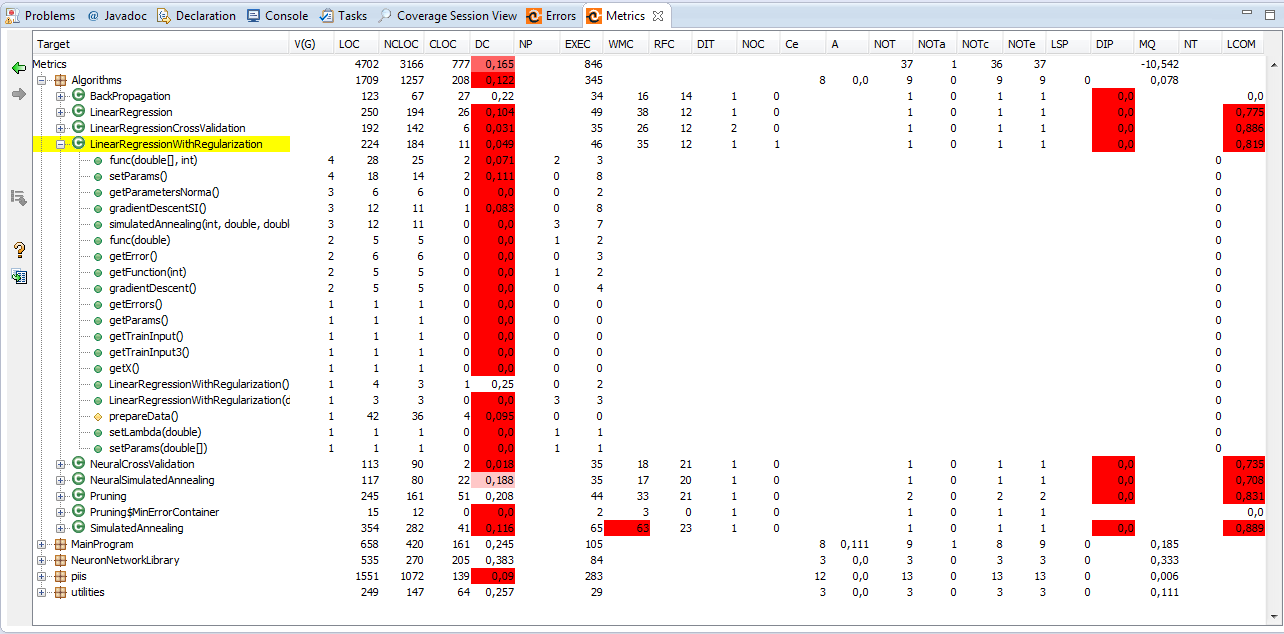
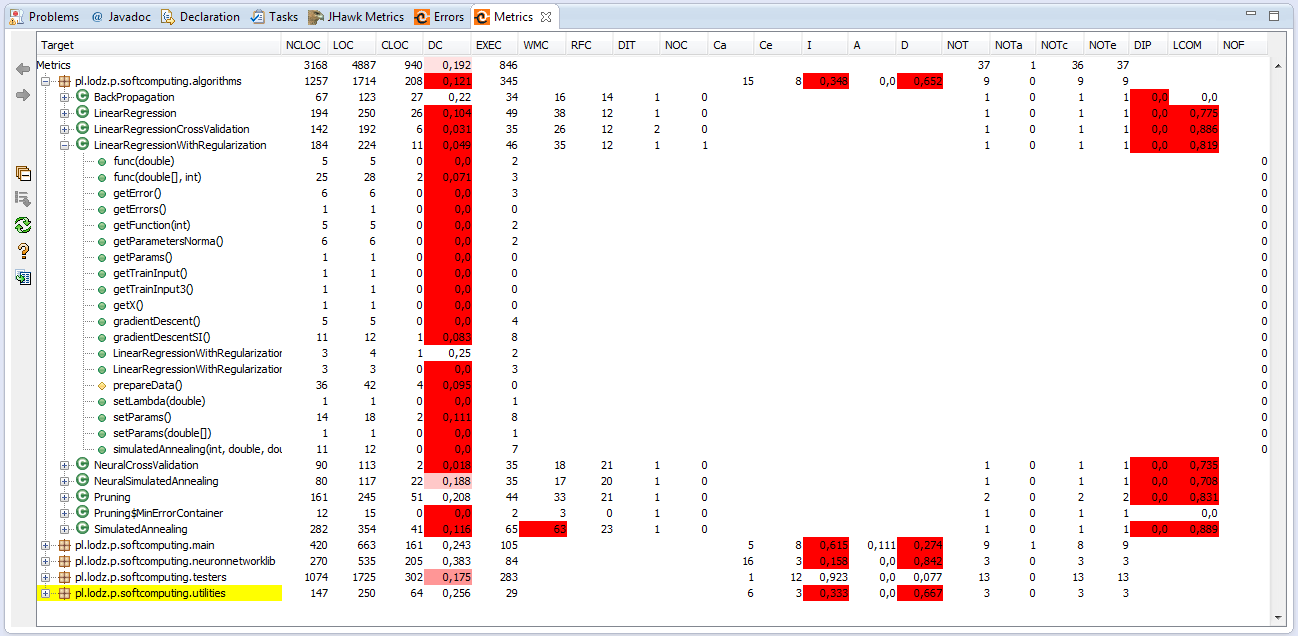
sporo poprawek ch5 nowe imgs

Changed region(s): [[0.0, 0.0, 1.0, 1.0], [0.4361, 0.8991, 0.4673, 0.929]]

diff --git a/ch3-metrics-theory.tex b/ch3-metrics-theory.tex
@@ -12,7 +12,7 @@ Thus, measurement captures information about \textit{attributes} and \textit{ent
 
 Describing the entities by attributes is often used by symbols or numbers. For instance, price is designated as a number of euros, while time of program execution in terms of seconds. Similarly, the satisfaction with national football team  may be ``very good'', ``good'', ``medium'', ``low'', ``very low''. These numbers and phrases reflect human perception of real world. Thus, having to compare the prizes of iPhone and Samsung Galaxy, it is possible to state that one is more expensive than second one, or the attributes (features) of both differs. 
 
-Another term that refers measurement is \textit{calculation}. Calculation is form of interpreting measurement and combing them into a quantified item that reflects some attributes whose value is tried to be understand. For example, the trainer could choose the players for next match basing on result of calculations. These calculations are made basing on attributes of every players and its possibility for facing the opponents attributes. Event though, the results of these calculations do not guarantee winning the champions, but , fortunately, in case of software engineering the results are rather clear.   
+Another term that refers measurement is \textit{calculation}. Calculation is form of interpreting measurement and combing them into a quantified item that reflects some attributes whose value is tried to be understand. For example, the trainer could choose the players for next match basing on result of calculations. These calculations are made basing on attributes of every players and its possibility for facing the opponents attributes. Event though, the results of these calculations do not guarantee winning the champions, but fortunately, in case of software engineering the results are rather clear.   
 
 Nowadays, the measurements become an significant part of software project management. Developers and customers prefer rely on measurement-based charts and graphs to support them what the visibility of project is and if the project is on right track. In order to compare and contrast projects, many companies and organization had created and defined set of standards measurements. It has been done so, because average client is not familiar with software terminology, so measurements could present a picture of progress in general and using understandable terms. For example, when a automotive company asks a software developer to write \ac{CAD} document version control system, the customer usually knows a lot about \ac{CAD} documents, but has no knowledge about compilers, programming languages and hardware needed to run designed software. The measurement should be presented in a way that explain both customer and developer what is progress of project and what the visibility for next days or months is.  
 
@@ -43,7 +43,7 @@ The metrics could be also divided into three categories: product metrics, proces
 \section{Software Quality Model}
 Experienced software developers are able to create a high quality software, however it is possible only when from the beginning all requirements and expectations are clearly defined. Having the overall view it is possible to design the system that has understandable and minimal complex structure. 
 
-However, the situation often changes after first release. It could happen so, because the client expectations were different or have changed, or new functionality need to be added, or the requirements have been clarified. In that case, the system loses its quality and get out of control. Testing, maintaining and extending software become a nightmare for developing team. 
+However, the situation often changes after first release. It could happen so, because the client expectations were different or have changed, or new functionality need to be added, or the requirements have been clarified. In that case, the system loses its quality and gets out of control. Testing, maintaining and extending software become a nightmare for developing team. 
 
 In order to keep development projects on the right track, and decrease the consequences of situations described above, several general software quality models gained the acceptance within the software engineering community. First people that described quality models are McCall and Boehm \cite{rigorous}. Figure \ref{fig:boehmjpg} presents Boehm`s view, while Figure \ref{fig:mccalljpg} illustrates how McCall viewed quality.
 
@@ -85,7 +85,7 @@ From derivation of McCall model, the basic international standard for software q
 \subsection{Functionality}
 Functionality is the main purpose of any software. For certain type of software is relatively easy to define its functionality. However, the more functions a software has, the more complicated it becomes. For example, sales order processing systems should be able to record customer information so that it can be used to reference a sales order.
 
-The main point to note is that functionality is expressed as a totality of essential functions that the software product provides. The presence or absence of some functions in a software product can be verified as either existing or not (given function could be or not be found in software product). The other software lcharacteristics present only some degree, because it cannot be simple stated that it characteristic is presented or not. The ISO-9126 quality model does not help measure overall process but only the software component. The relationship between software functionality within an overall business process is outside the scope.
+The main point to note is that functionality is expressed as a totality of essential functions that the software product provides. The presence or absence of some functions in a software product can be verified as either existing or not (given function could be or not be found in software product). The other software characteristics present only some degree, because it cannot be simple stated that this characteristic is presented or not. The ISO-9126 quality model does not help measure overall process but only the software component. The relationship between software functionality within an overall business process is outside the scope.
 
 There are five software quality criteria that characterize the usefulness of the software in a given environment (Table~\ref{tab:functionality_factor}):
 
@@ -278,7 +278,7 @@ Code coverage analysis is kind of structural testing technique (other names: gla
 
 There are variety of coverage metrics. The paragraphs below contain a description of some fundamental metrics, their strengths, weaknesses and issues. 
 
-\paragraph{Statement coverage metrics} reports every executable statement that is encountered.  Note that a statement does not necessarily correspond to a line of code. Control-flow statements, such as \texttt{if, for} and \texttt{switch} are covered if the expression controlling the flow is covered as well as all the contained statements. Implicit statements, such as an omitted return, are not subject to statement coverage. 
+\paragraph{Statement coverage metric} reports every executable statement that is encountered.  Note that a statement does not necessarily correspond to a line of code. Control-flow statements, such as \texttt{if, for} and \texttt{switch} are covered if the expression controlling the flow is covered as well as all the contained statements. Implicit statements, such as an omitted return, are not subject to statement coverage. 
 
 Advantage of statement coverage is verification of what the written code is expected to do and not to do. It also measures the quality of written code, checks the flow of different paths in the program and it also ensures, if those path are tested or not.
 
@@ -295,7 +295,7 @@ Statement\quad coverage\quad =\quad \frac { number\quad of\quad statement\quad e
 
 
 %%%%%%%%%%%%%%%%%%%%%%%%%%%%%%%%%%%%%%%%%%%%%%%%%%%%%%%%
-\paragraph{Decision coverage metrics} also known as \textit{branch coverage} or \textit{all-edges coverage}. It covers both the true and false conditions.  A branch is considered as the outcome of a decision and it  simply measures which decision outcomes have been tested. This metrics takes a more in-depth view of the source code than simple statement coverage.
+\paragraph{Decision coverage metric} is also known as \textit{branch coverage} or \textit{all-edges coverage}. It covers both the true and false conditions.  A branch is considered as the outcome of a decision and it  simply measures which decision outcomes have been tested. This metrics takes a more in-depth view of the source code than simple statement coverage.
 
 A decision is taken in if-statement, a loop control statement  or a switch statement and the result of these statements could be either TRUE or FALSE.
 
@@ -358,11 +358,11 @@ a=false, b=true, c=false
 
 Condition coverage is also known as \textit{expression, condition-decision} and \textit{multiple decision coverage}.
 %%%%%%%%%%%%%%%%%%%%%%%%%%%%%%%%%%%%%%%%%%%%%%%%%%%%%
-\paragraph{Path coverage metrics} reports if every possible path in given function has been followed. This path is a unique sequence of branches from the function entry to the exit. It tests all possible combinations of logical conditions. 
+\paragraph{Path coverage metric} reports if every possible path in given function has been followed. This path is a unique sequence of branches from the function entry to the exit. It tests all possible combinations of logical conditions. 
 
 The purpose of path coverage metrics is to ensure that all paths through the program are taken. In sizeable program there will be an enormous number of paths through the program could be executed, so in practice the paths could be limited to those within a single function whether the function is not too big, or i.e. has simply two consecutive branches.
 
-The main advantage of path coverage metrics is accuracy. However, from the other side, the number of path increase exponentially to the number of branches and it is impossible to exercise all of time in small unit of time.  
+The main advantage of path coverage metrics is accuracy. However, from the other side, the number of paths increase exponentially to the number of branches and it is impossible to exercise all of time in small unit of time.  
 
 %%%%%%%%%%%%%%%%%%%%%%%%%%%%%%%%%%%%%%%%%%%%%%%%%%%%%
 \subsubsection{Other coverage metrics} 
@@ -404,8 +404,8 @@ Computational complexity has also impact on the software, so if the complex algo
 McCabe has based its metrics on analysis of some measurement concepts in graph theory. He has  transferred these concepts into domain of software measurement. The terms connected to graph theory have been explained in Chapter~\ref{section:graph_theory} in section: \textit{Graph theory}. The term \textit{cyclomatic number} is explained below (definition from:~\cite{alain}).
 
 \begin{quote}
-\textit{The \ac{CC} number \textbf{v(G)} of a strongly connected directed graph is equal to the
-maximum number of linearly independent cycles.}
+The \ac{CC} number \textbf{v(G)} of a strongly connected directed graph is equal to the
+maximum number of linearly independent cycles.
 \end{quote}\vspace{-1cm}
 
 \begin{equation}
@@ -454,6 +454,8 @@ The low value of \ac{CC} determines that given function is easy to understand. T
 %%%%%%%%%%%%%%%%%%%%%%%%%%%%%%%%%%%%%%%%%%%%%%%%%%%%%
 
 \subsection{Halstead complexity}
+\label{sec:halstead}
+
 The Halstead's metrics were proposed by Maurice Halstead. The main assumption is to determine a quantitative measure of the complexity directly from the operators and operands in the component. Metrics measure program component's complexity directly from source code, because the implementation or expression of the algorithm should reflect the execution independently of a specific platform. The main goal is to identify measurable software properties and its relations.
 
 Halstead metrics are based on interpretation of the source code as a sequence of tokens and classifying them to be either operator or operand.   
@@ -704,4 +706,10 @@ There are also many other software metrics that are commonly used to preventing 
 \textbf{\ac{MC}} indicates density of comments with respect to logical complexity of program $LC=\frac { CC }{ COM } $.
 
 \section{Summary}
-[dodac zawartosc ;)]
+The described metrics supports the software developers to keep their projects on the right track. As a result, the quality of the provided, final product is then more resistant on faults and does not require releasing any additional patches. Metrics are particularly useful when the software is further developed and there is no chance to redefine or rebuild some components of the system.
+
+The main advantage of software metrics is fact that they are able to verify the laws and rules of structural and object-oriented programming. In one phrase, they teach and support the good coding practise that is very important issue when the complex system is implemented and developed.
+
+The aspects of programming and software developing that are measured by presented software metrics does not fully determines the quality of final software product. The difference between languages fundamentals and syntax does require to define or redefine some definitions again. For example, the \ac{DIT} and \ac{NOC} metrics from \ac{CK metrics} does not take into consideration the multi-inheritance.   
+
+Metrics could be treated as useful tool for code understanding, however most of the scientific publications about metrics comes from nineties. It proves that the issue is not interesting matter of study now. What is more, it is still many open cases and new metrics could be defined or existing ones become more detailed.

diff --git a/ch5-metrics-practical.tex b/ch5-metrics-practical.tex
@@ -1,4 +1,77 @@
 \chapter{Practical approach to software metrics} \label{roz:metrics-practic}
 
-\textit{The purpose to use software metrics to improve code quality.}
+\textit{The purpose of this chapter is to use software metrics to improve the quality of code for exemplary academic project. Basing on tools introduced in Chapter~\ref{roz:metrics-tools} (STAN, RefactorIT and JHawk) and metrics described in Chapter~\ref{roz:metrics_theory}, the project is analysed and it is underlined which aspects need improvements.}
 
+\section{Project description}
+neural network academic project --- opis
+
+\section{Metrics analysis}
+The Figure~\ref{fig:wyniki} presents the results of measurement with use of size metrics, object-oriented metric (\ac{CK metrics}) and package metric (Martin's metrics) for neural network project.  
+
+\begin{figure}[h!]
+	\centering
+	\includegraphics[scale=0.45]{img/wyniki-refactorIT.png} 
+	\caption{The results for neural network project generated by RefactorIT.}		
+	\label{fig:wyniki}
+\end{figure}
+
+\subsubsection*{Size metrics}
+The Lines of Code (\ac{LoC}) metric in RefactorIT does not take into account comments, empty lines and imports. The non-commented lines of code (\ac{NCLOC}) counts the lines that are not comments or empty lines. The commented lines of code (\ac{CLOC}) informs how many lines contains comments or Java docs. The executable statements (\ac{EXEC} indicates the lines that are executable statements. 
+
+The main function of already mentioned metrics and these from NOT--family metrics (number of types (\ac{NOT}), number of abstract types (\ac{NOTa}), number of concrete types (\ac{NOTc}), number of exported types (\ac{NOTe})) is to inform about the size of project. The greater values are, the more effort has been taken to prepare the implementation. In this case, any values exceeding is predicted. 
+
+The density of comments (\ac{DC}) metric determines a density value of how commented the code is. The red background indicated that there are classes which are not enough commented. In other words, there are no Java docs provided for every class, method or attribute in given package.
+
+\subsubsection*{Object-oriented metrics}
+The next group studied by RefactorIT tool is \ac{CK metrics}. According to NASA publication \cite{nasa} that made the research about object-oriented projects. In complex system, 60\% of class have \ac{WMC} values smaller than 20, about 36\% between 20 and 100, and only 4\% of class have \ac{WMC} greater than 100. In this case, the neural network project has only one class (\texttt{SimulatedAnnealing}) that exceeds desired value. It means that it is the most complex class and it needs to be reimplemented. The difference in compare to rest of classes is really high. 
+
+The greater \ac{RFC} value is, the more complex and functional class is. It causes problems in testing and maintenance. Analysing \ac{RFC} values for neutral network project, it could be stated that the most complex are classes which values exceed 20. They are usually in \textit{pl.lodz.p.softcomputing.algorithms} package what proves the definition of \ac{RFC}.       
+
+In case of \ac{DIT} metric, the greater number of class that given child class inherits, the deeper degree of complexity is. It increases the cost of maintenance, so the class chain that leads to \texttt{Plot} class should be shorten. 
+
+The next from \ac{CK metrics} set is \ac{LCOM} metric, but more precisely LCOM2 metric. The results should be returned in interval between 0 and 1. The smallest values are the better. As it could be observed, the area of improvements in that case is very wide. It indicates lack of cohesion inside the methods.  
+
+The results of \ac{NOC} metric shows that inheritance is poorly used in neural network project which could lead to code duplication. The \ac{CBO} metric is not implemented in RefactorIT.
+
+\subsubsection*{Martin's metric}
+The Martin's metrics that into consideration the packages inside the neural network project. The upper limit for values of efferent coupling (\ac{Ce}) is 20. Neither of packages exceed it. The same situation is with afferent coupling (\ac{Ca}), however the tolerance for \ac{Ca} is equal even to 500. 
+
+The abstractness (\ac{A}) calculates the relationship between number of interfaces and classes within the package. Only for a one package this ratio has been calculated (\textit{pl.lodz.p.soft\-com\-pu\-ting.main}). The resultant value means that the package is open to changes in implementation.
+
+The instability (\ac{I}) calculated the effort needed to change a package without impacting others. The stability of the package is defined in range 0.0 to 0.3. In this case of \textit{pl.lodz.p.soft\-com\-pu\-ting.al\-go\-rithms, pl.lodz.p.soft\-com\-pu\-ting.neu\-ron\-net\-work\-lib} and \textit{pl.\-lodz.\-p.\-soft\-com\-pu\-ting.u\-ti\-li\-ties} packages could be stated that are or are closed to be treated as stable. The packages: \textit{pl.lodz.p.soft\-com\-pu\-ting.main} and \textit{pl.lodz.p.soft\-com\-pu\-ting.tes\-ters} are considered as unstable or as close to be unstable packages.
+
+The last from Martin's metrics set is distance from the main square (\ac{D}). The values close to 0 are desirable ones. Any package that is not close to zero is considered as unbalanced and need to be reimplemented to be less sensitive to changes~\cite{martin}. The only acceptable is value for \textit{pl.lodz.p.soft\-com\-pu\-ting.tes\-ters} package. The values for the rest of packages are not acceptable. 
+
+\subsubsection*{Halstead complexity metrics}
+The Halstead complexity metrics are implemented only in JHawk plug-in. The shareware version of JHawk enables to calculate four of metrics: program length, program volume difficulty error proneness and effort to implement but only on package or class level. It is not possible to generates those results for the whole project in freeware version. The Figure~\ref{fig:jhawk3} presents the results for  \textit{pl.lodz.p.soft\-com\-pu\-ting.al\-go\-rithms} package. 
+
+\begin{figure}[h!]
+	\centering
+	\includegraphics[scale=0.7]{img/jhawk3.png}  
+	\caption{Results of Halstead metrics generated by JHawk plug-in.}		
+	\label{fig:jhawk3}
+\end{figure}
+
+The results of program level and time to implement metrics could be very easily derived from provided formulas described in section~\ref{sec:halstead}. 
+
+For program level (L):
+\[L=\frac { 1 }{ 1,04 } \approx 0,96\]
+
+For time to implement (T):
+\[T=\frac { 52699,9 }{ 18 } \approx 2903,88\quad seconds\]
+
+Basing on the results could be stated that implementation of researched package requires 48~minutes and 24~seconds. The obtained result is only theoretical and does not take into consideration any external factors.  
+
+\subsubsection*{McCabe's cyclomatic complexity}
+
+
+\section{Summary}
+rozwijac dziedziczenie i go uzyc
+
+wiecej komentarzy
+
+cohesion
+
+paczki słabo - stable vs unstable   oraz distance
+
+halstead smieszne i trywialne

diff --git a/ch4-metrics-tools.tex b/ch4-metrics-tools.tex
@@ -240,7 +240,7 @@ Another interesting feature is customizable reports generation. It gives a detai
 
 \begin{figure}[h!]
 	\centering
-	\includegraphics[scale=0.45]{img/stan2.png} 
+	\includegraphics[scale=0.55]{img/stan2.png} 
 	\caption{STAN: Coupling view.}		
 	\label{fig:stan2}
 \end{figure}
